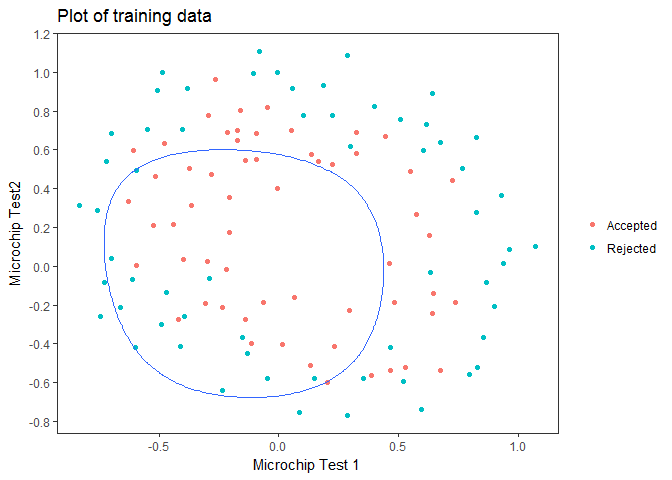
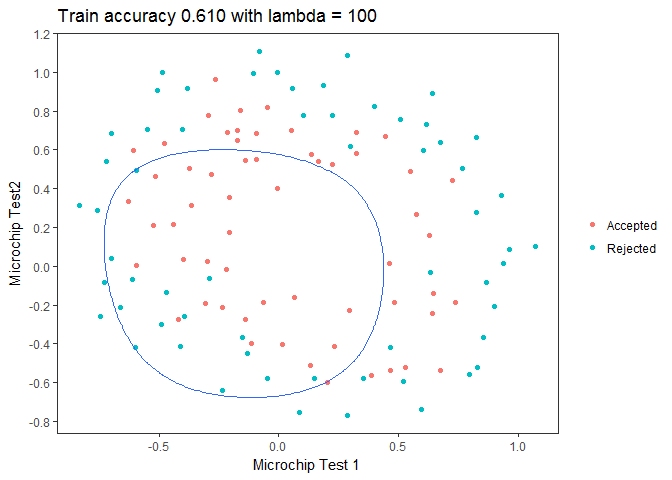
update

Changed region(s): [[0.0625, 0.0, 0.5625, 0.0625]]

diff --git a/Cousera_ML_Assignment/Coursera_ML_Assignment2.md b/Cousera_ML_Assignment/Coursera_ML_Assignment2.md
@@ -159,11 +159,11 @@ Predict = function(X, theta) {
 # make predict vector  
 predict = Predict(X, theta)
 
-accuracy = mean(predict == y) * 100
+accuracy = mean(predict == y) 
 sprintf('Train Accuracy: %.3f:', accuracy)
 ```
 
-    ## [1] "Train Accuracy: 89.000:"
+    ## [1] "Train Accuracy: 0.890:"
 
 2.Regularized logistic regression
 =================================
@@ -257,6 +257,16 @@ sprintf('cost at theta found by optim: %f', cost)
 
     ## [1] "cost at theta found by optim: 0.529003"
 
+``` r
+# make predict vector  
+predict = Predict(X, theta)
+
+accuracy = mean(predict == y) 
+sprintf('Train Accuracy: %.3f:', accuracy)
+```
+
+    ## [1] "Train Accuracy: 0.831:"
+
 ### 2.5 Plotting decision boundary
 
 ``` r
@@ -299,7 +309,11 @@ boundary = draw_boundary(seq(-1, 1.5, length = 200),
 
 ``` r
 # Adding contour on previous plot
-p_w_decisonboundary = p + geom_contour(data = boundary, aes(x = u, y = v, z = z), breaks = 0.5) # 'breaks' provide breakpoint z level I need
+p_w_decisonboundary = p + geom_contour(data = boundary,
+                                         aes(x = u, y = v, z = z),
+                                         breaks = 0.5) + 
+  # 'breaks' provide breakpoint z level I need
+  ggtitle(sprintf('Train accuracy %.3f with lambda = 1', accuracy))
 
 p_w_decisonboundary
 ```
@@ -325,6 +339,11 @@ optimRes1 = optim(par = initial_theta,
 # saving result
 theta1 = optimRes1$par
 
+# make predict vector  
+predict1 = Predict(X, theta1)
+
+accuracy1 = mean(predict1 == y) 
+
 # Making 'boundary' data.frame having grid and H value
 boundary1 = draw_boundary(seq(-1, 1.5, length = 200), 
                          seq(-0.8, 1.2, length = 200), theta1, 6)
@@ -332,7 +351,8 @@ boundary1 = draw_boundary(seq(-1, 1.5, length = 200),
 # plotting
 p_w_decisonboundary1 = p +
   geom_contour(data = boundary1, aes(x = u, y = v, z = z),
-               breaks = 0.5) 
+               breaks = 0.5) +
+  ggtitle(sprintf("Train accuracy %.3f with lambda = 0", accuracy1))
 p_w_decisonboundary1
 ```
 
@@ -353,6 +373,11 @@ optimRes2 = optim(par = initial_theta,
 # saving result
 theta2 = optimRes2$par
 
+# make predict vector  
+predict2 = Predict(X, theta2)
+
+accuracy2 = mean(predict2 == y) 
+
 # Making 'boundary' data.frame having grid and H value
 boundary2 = draw_boundary(seq(-1, 1.5, length = 200), 
                          seq(-0.8, 1.2, length = 200), theta2, 6)
@@ -360,7 +385,8 @@ boundary2 = draw_boundary(seq(-1, 1.5, length = 200),
 # plotting
 p_w_decisonboundary2 = p + 
   geom_contour(data = boundary2, aes(x = u, y = v, z = z),
-               breaks = 0.5) 
+               breaks = 0.5) +
+  ggtitle(sprintf("Train accuracy %.3f with lambda = 100", accuracy2))
 p_w_decisonboundary2
 ```
 
